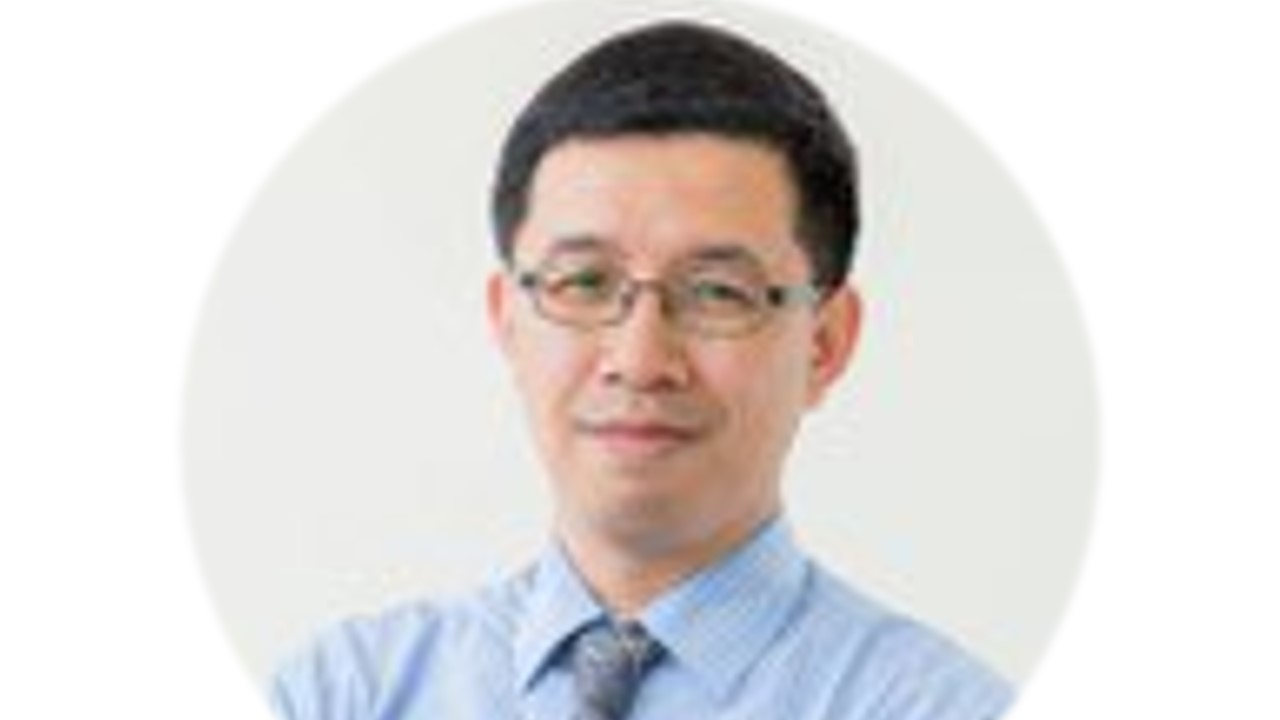
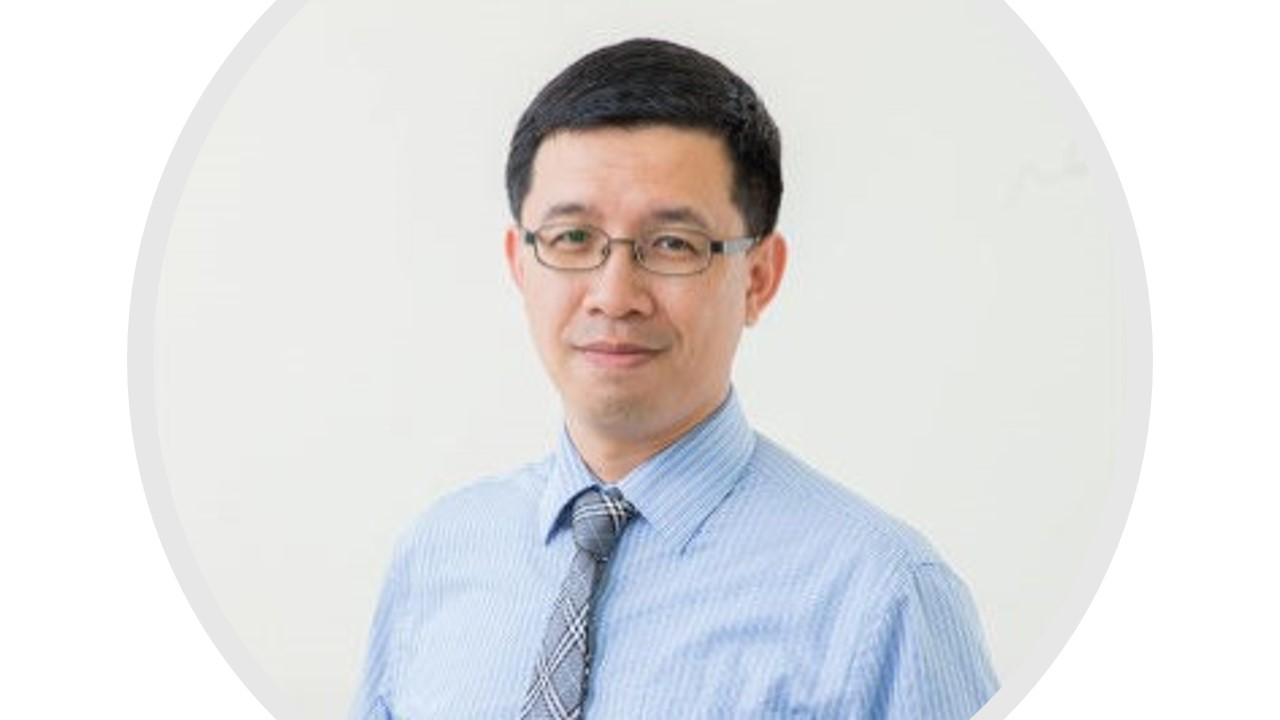
head

diff --git a/index.html b/index.html
@@ -182,7 +182,7 @@
 					<!--致詞2-->
 					<div class="boxes2">
 						<div class="boxes3" style="width: 30%">
-							<img src="images/head.jpg" class="headC">
+							<img src="images/HG2.jpg" class="headC">
 						</div>
 
 						<div class="boxes4" style="width: 70%">
